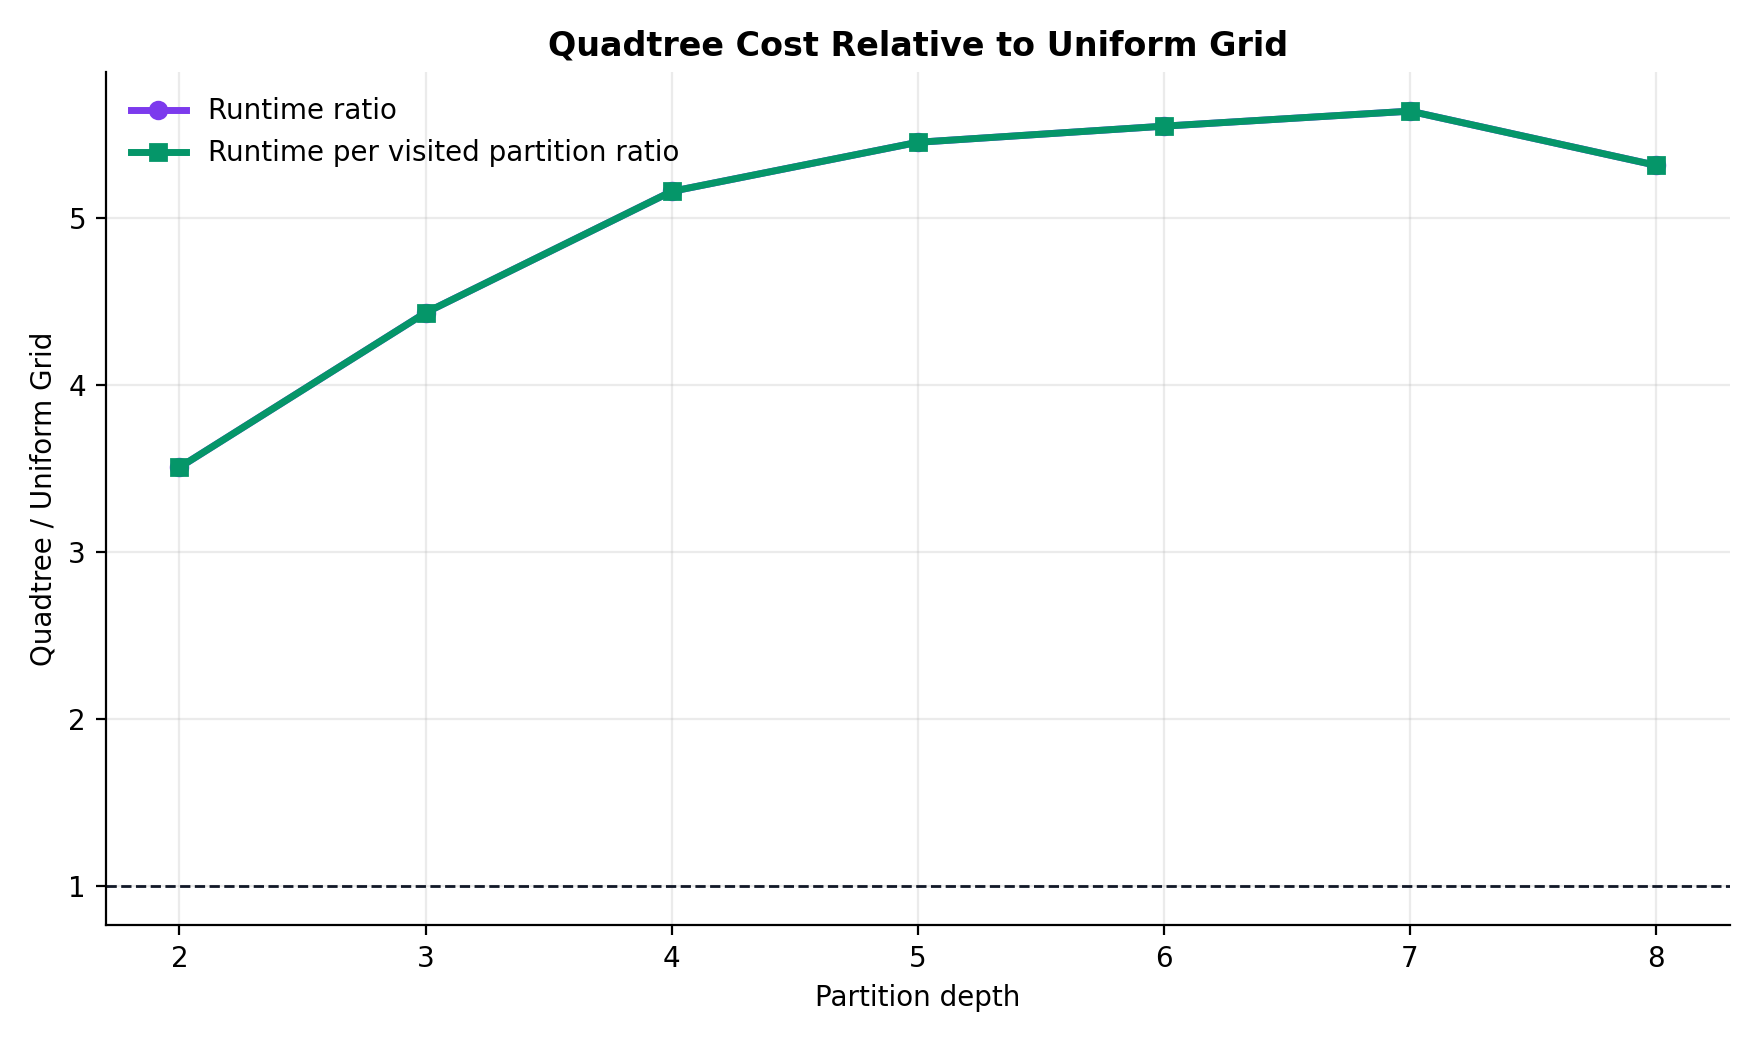
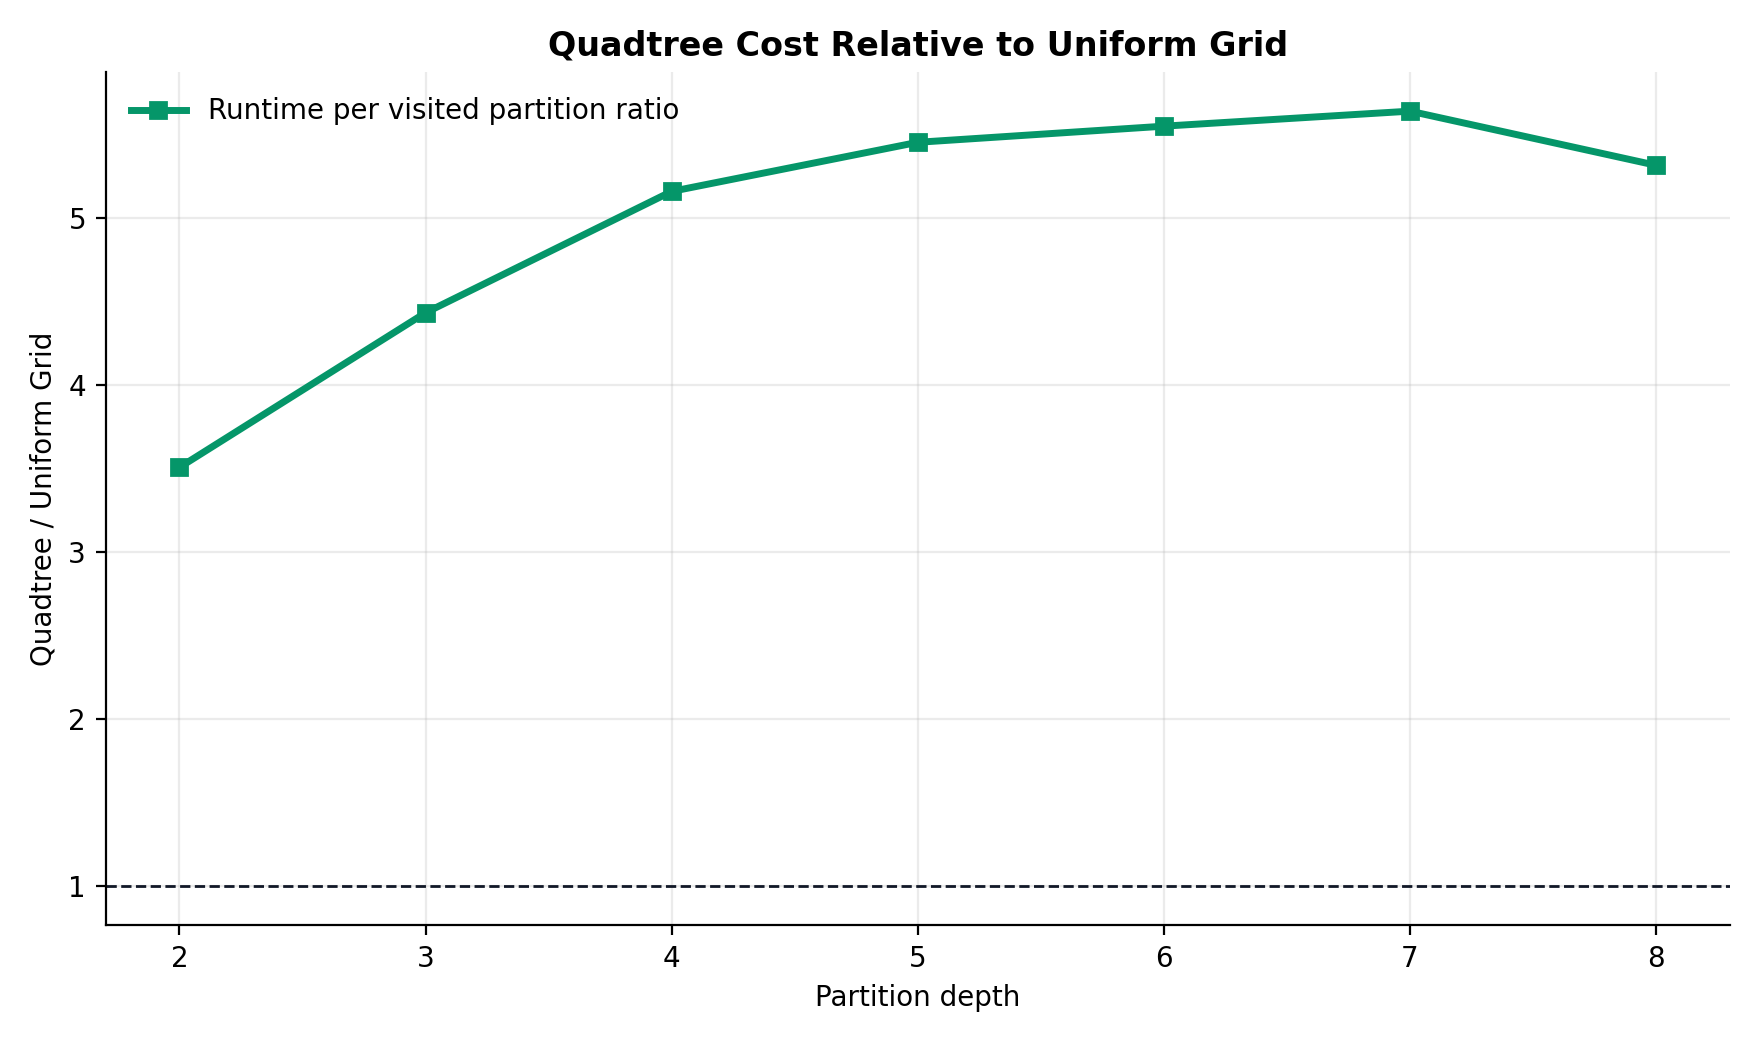
improved figures

Changed region(s): [[0.0625, 0.0923, 0.375, 0.1538]]

diff --git a/analysis_results/ray_traversal_20260606_201240/analyze_benchmark.py b/analysis_results/ray_traversal_20260606_201240/analyze_benchmark.py
@@ -421,11 +421,6 @@ def plot_ratios(summary_rows):
         (row["algorithm"], row["depth"]): row for row in summary_rows
     }
     depths = sorted({row["depth"] for row in summary_rows})
-    runtime_ratios = [
-        by_algorithm_depth[(TREE, depth)]["avg_runtime_ns_per_ray"]
-        / by_algorithm_depth[(GRID, depth)]["avg_runtime_ns_per_ray"]
-        for depth in depths
-    ]
     per_visit_ratios = [
         by_algorithm_depth[(TREE, depth)]["avg_runtime_ns_per_visited_partition"]
         / by_algorithm_depth[(GRID, depth)]["avg_runtime_ns_per_visited_partition"]
@@ -433,14 +428,6 @@ def plot_ratios(summary_rows):
     ]
 
     fig, ax = plt.subplots(figsize=(8.8, 5.2))
-    ax.plot(
-        depths,
-        runtime_ratios,
-        marker="o",
-        linewidth=2.5,
-        color="#7c3aed",
-        label="Runtime ratio",
-    )
     ax.plot(
         depths,
         per_visit_ratios,
